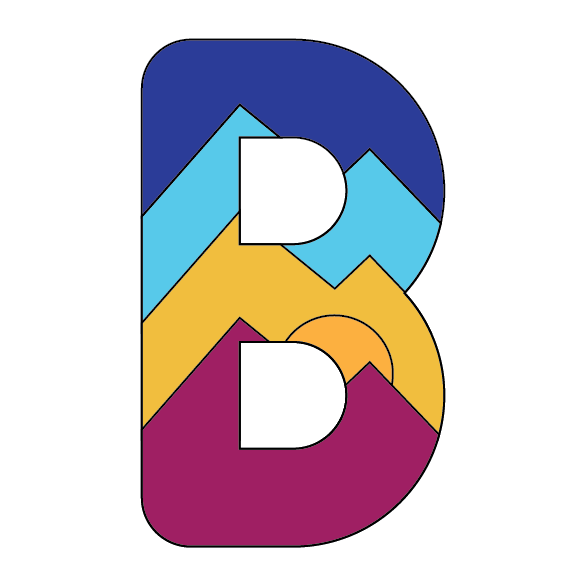
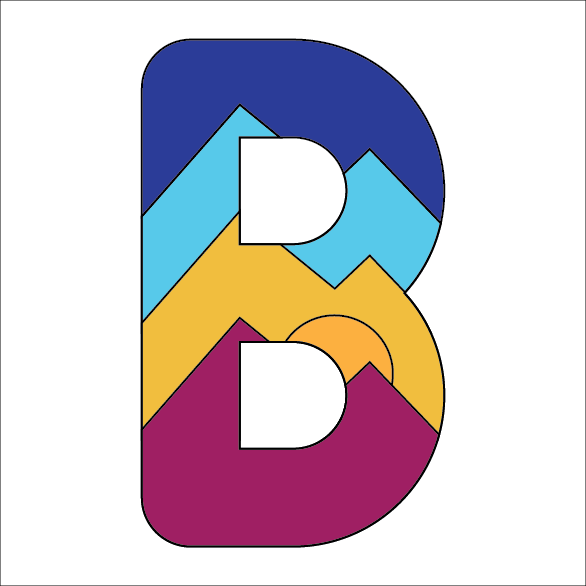
changes for testflight push

diff --git a/README.md b/README.md
@@ -5,3 +5,7 @@ Implements this! https://www.thetide.online/post/bioverse-0-2
 ## H3
 
 https://github.com/realPrimoh/h3-reactnative
+
+## Removing Alpha Channel
+
+http://alphachannelremover.blogspot.com/
